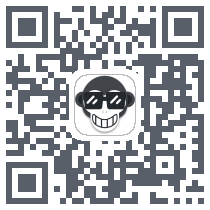
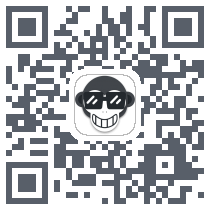
update download

diff --git a/README.md b/README.md
@@ -119,7 +119,7 @@
 
 ### 下载
 
-#### Apk下载链接： [Apk下载链接](https://www.pgyer.com/vj2B)
+#### Apk下载链接： [Apk下载链接](https://www.pgyer.com/guqa)
 
 
 | 类型          | 二维码                                      |
